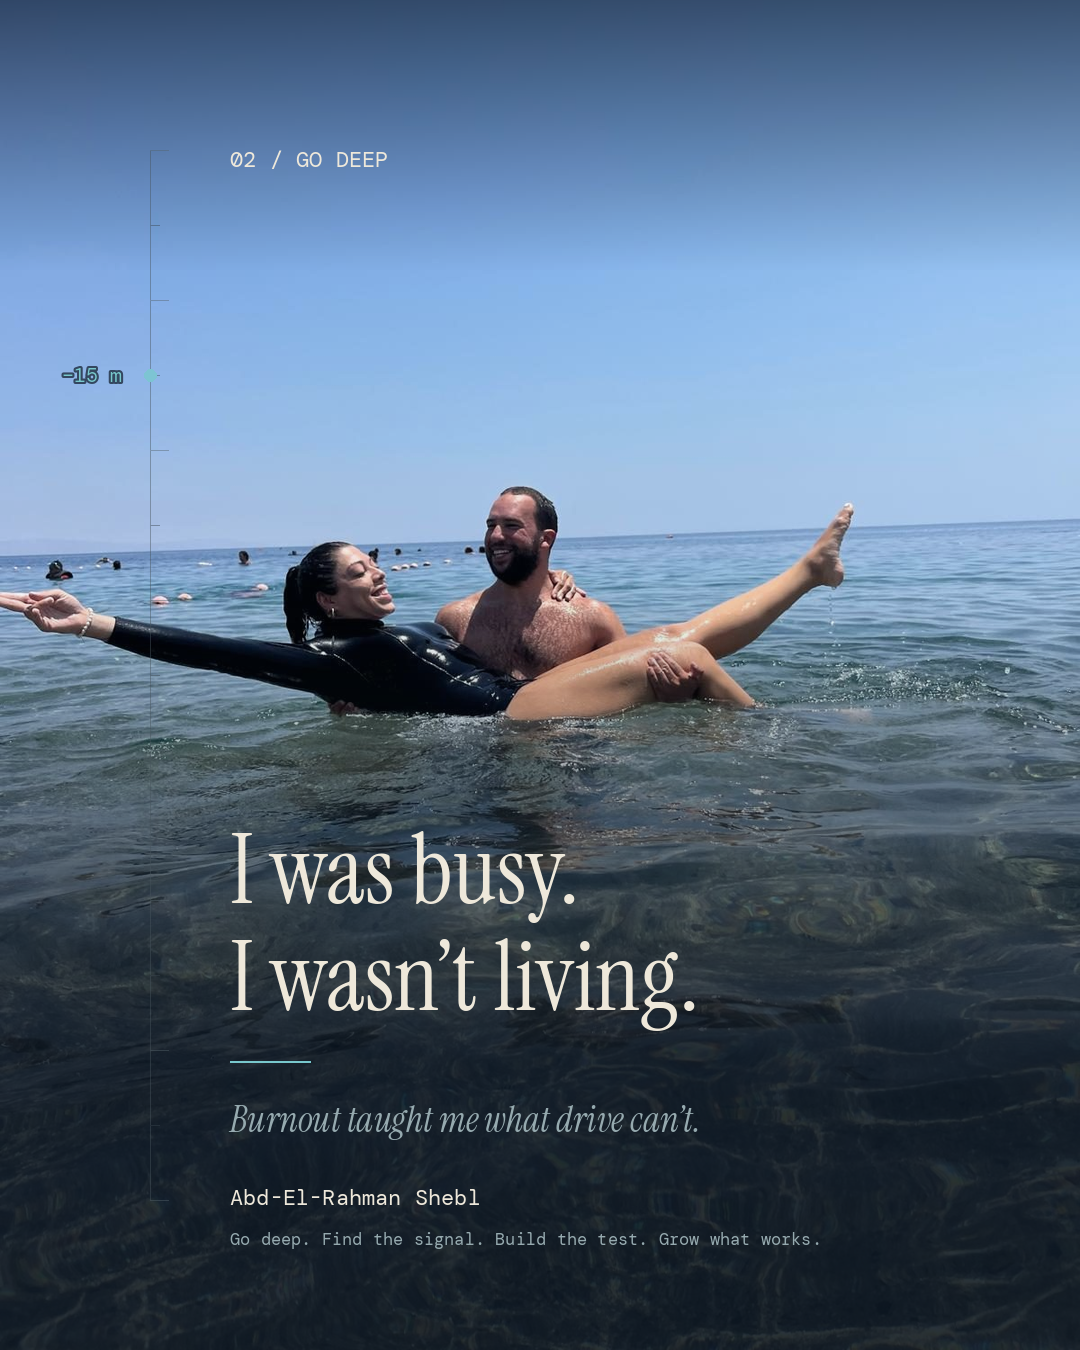
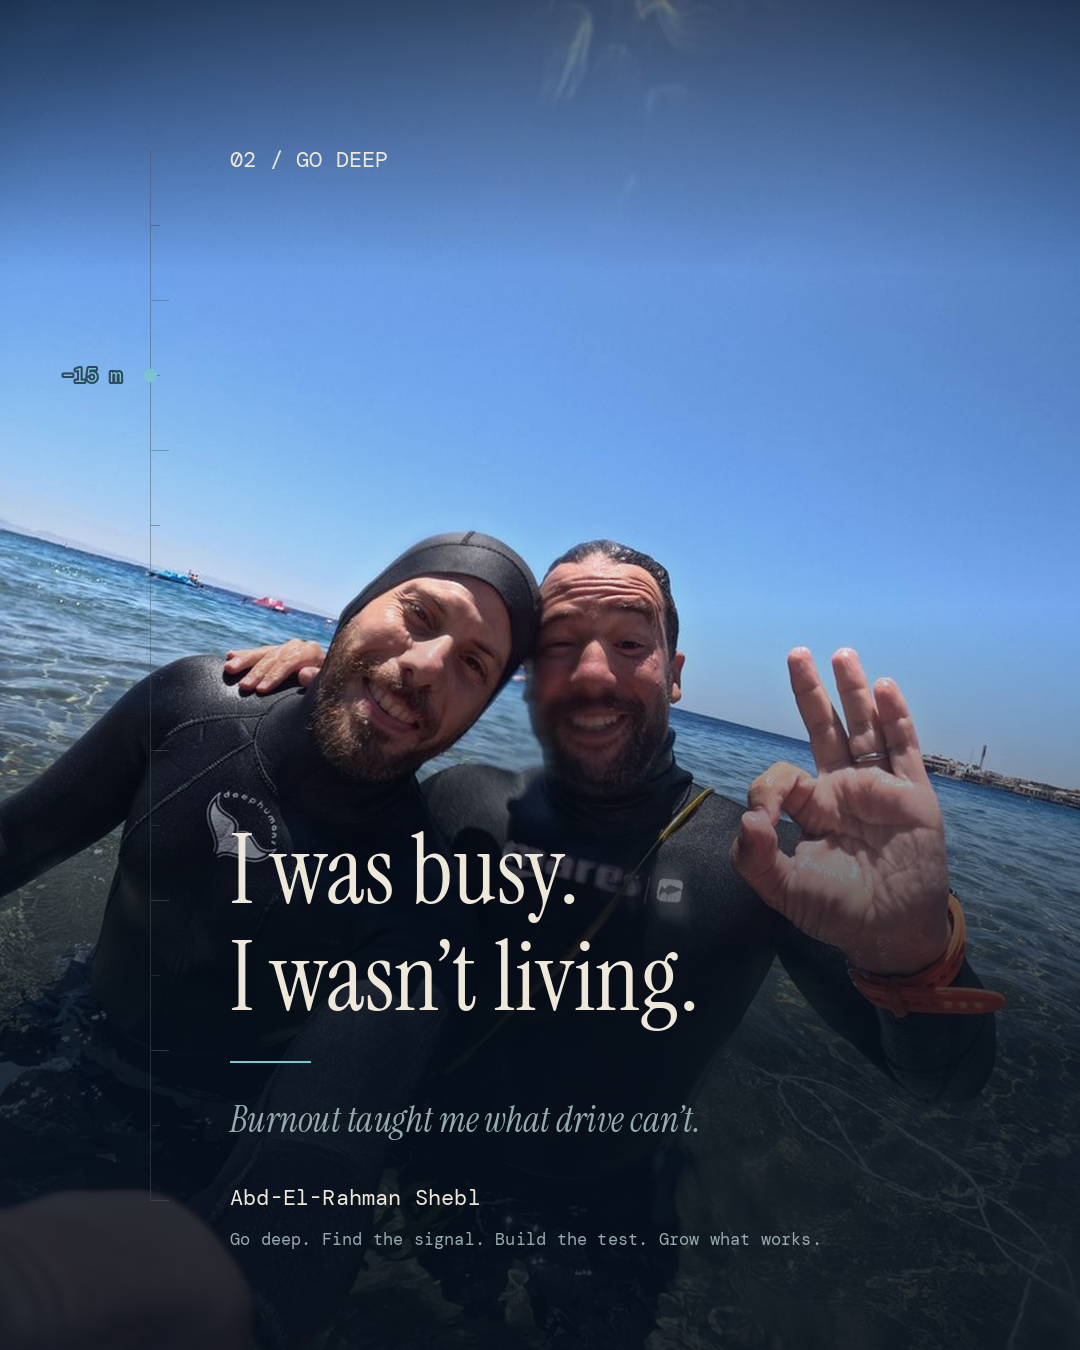
LinkedIn studio: post 02 uses a photo with a student
Claude-Session: https://claude.ai/code/session_017LSm8ADBcaHVjFRtYg6f1o

diff --git a/linkedin-studio/posts-log.md b/linkedin-studio/posts-log.md
@@ -6,7 +6,7 @@ Fill in results 48 h after posting. Review what works after 4 weeks (around 3 De
 | # | Pillar | Depth | Images | Planned | Posted | Impressions | Reactions | Comments | DMs | Notes |
 |---|--------|-------|--------|---------|--------|-------------|-----------|----------|-----|-------|
 | 01 | GO DEEP | 5 m | photo overlay (shebl.jpg) | Thu 5 Nov 2026 | | | | | | ready |
-| 02 | GO DEEP | 15 m | photo overlay (about-hero.jpg) | Tue 10 Nov 2026 | | | | | | ready |
+| 02 | GO DEEP | 15 m | photo overlay (commx-49.jpg, with a student) | Tue 10 Nov 2026 | | | | | | ready |
 | 03 | GO DEEP | 25 m | photo clean (tr-openwater.jpg) + graphic | Thu 12 Nov 2026 | | | | | | ready |
 | 04 | FIND THE SIGNAL | 35 m | photo clean (students-buoy-2.jpg) + graphic | Tue 17 Nov 2026 | | | | | | ready; faces sit in text zone, so headline moved to image 2 |
 | 05 | BUILD THE TEST | 45 m | graphic | Thu 19 Nov 2026 | | | | | | ready; first clear ask |
